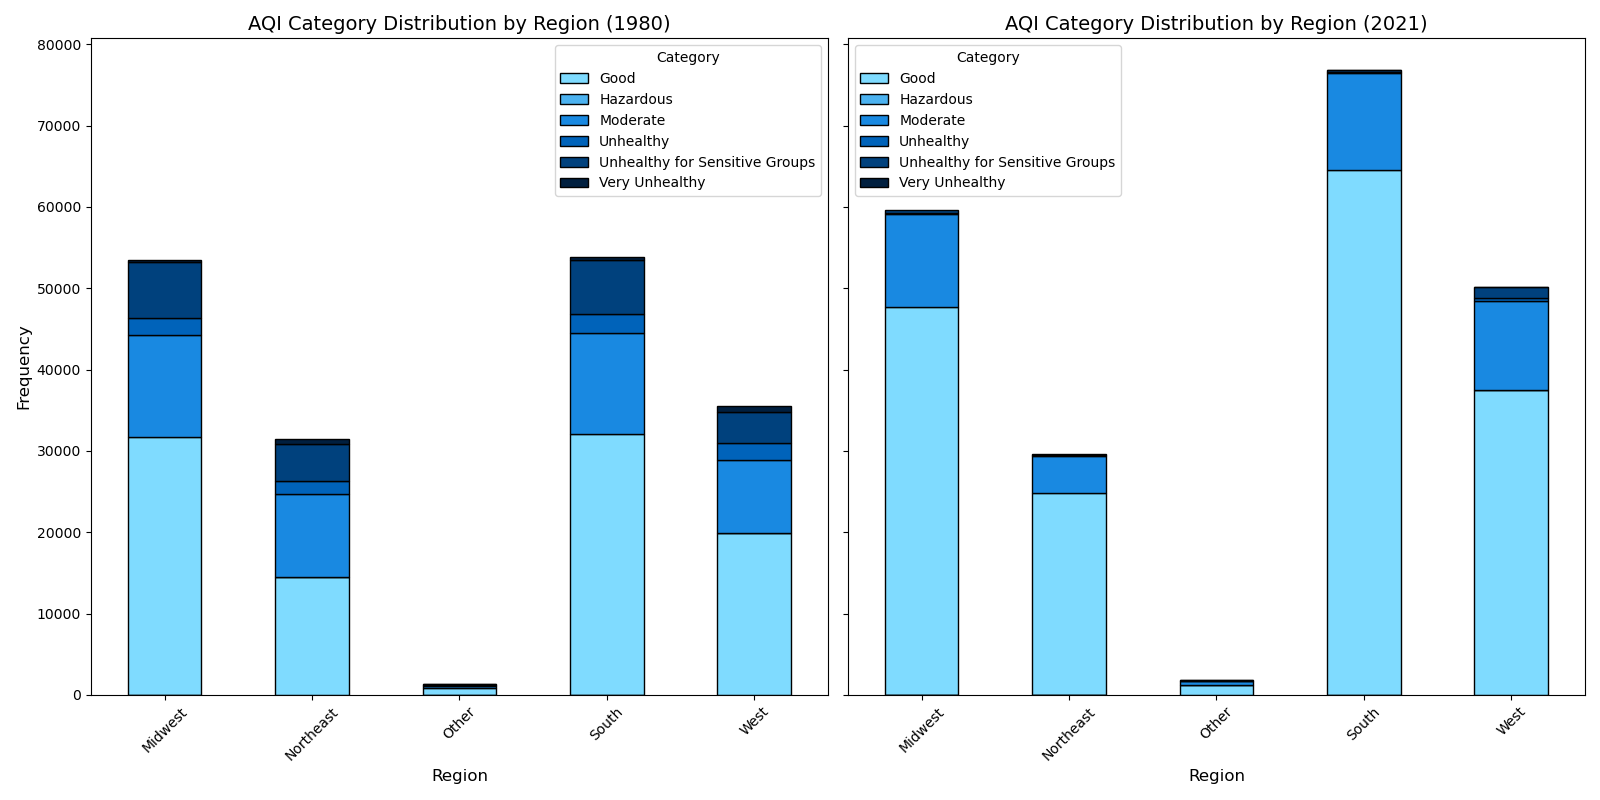
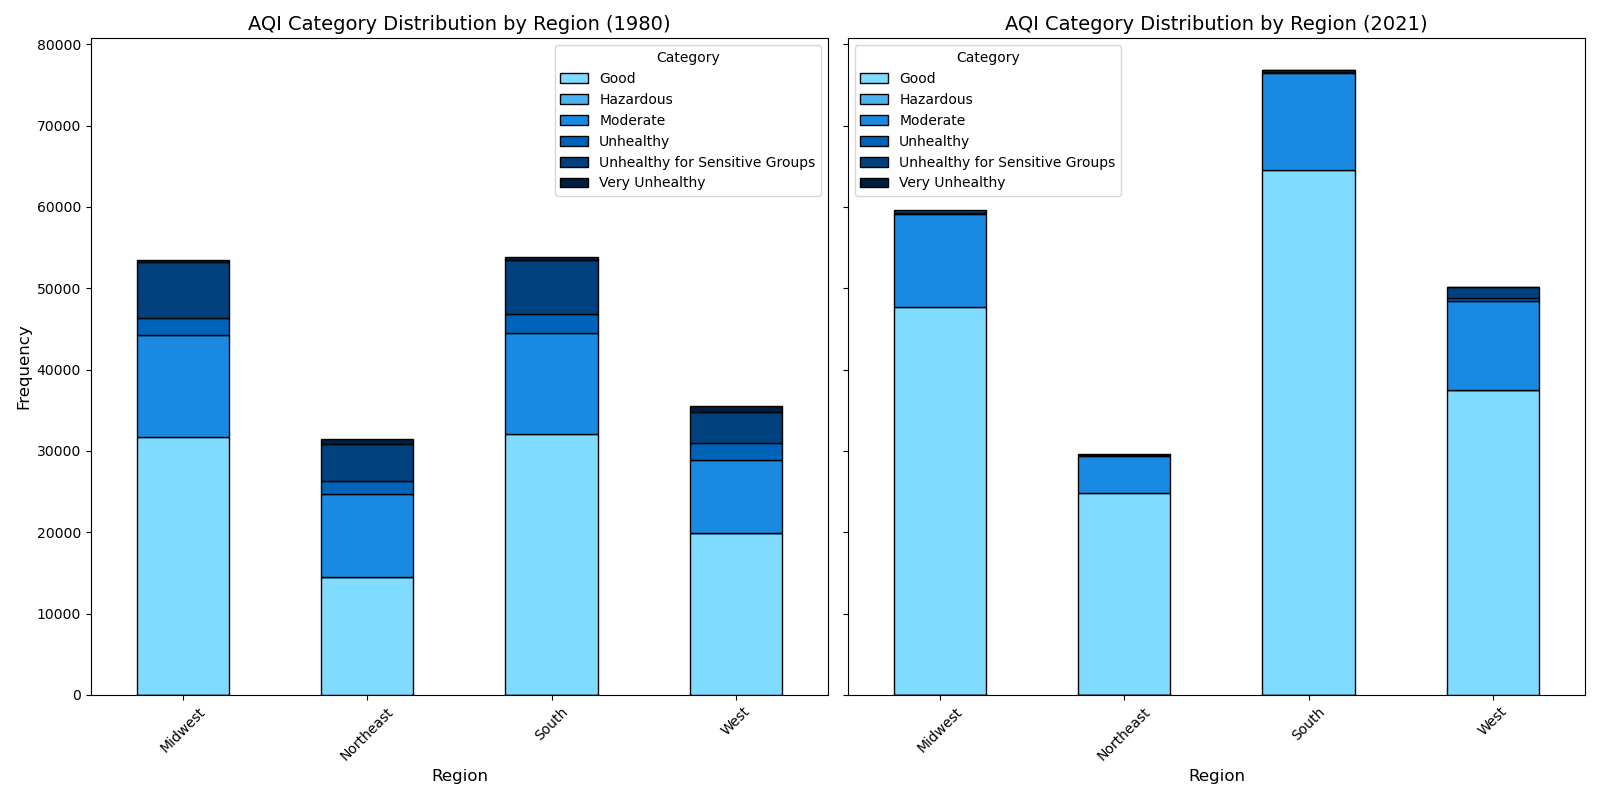
updated bar chart

diff --git a/scripts/visualization.py b/scripts/visualization.py
@@ -77,14 +77,18 @@ regions = {
              'Oregon', 'Utah', 'Washington', 'Wyoming']
 }
 
+
 # Assign regions to both datasets
 combined_aqi['Region'] = 'Other'  # Default value
 for region, states in regions.items():
     combined_aqi.loc[combined_aqi['State Name'].isin(states), 'Region'] = region
 
+# Filter out rows where Region is 'Other'
+filtered_aqi = combined_aqi[combined_aqi['Region'] != 'Other']
+
 # Group by region and category for 1980 and 2021 separately
-region_category_1980 = combined_aqi[combined_aqi['Year'] == 1980].groupby(['Region', 'Category']).size().unstack(fill_value=0)
-region_category_2021 = combined_aqi[combined_aqi['Year'] == 2021].groupby(['Region', 'Category']).size().unstack(fill_value=0)
+region_category_1980 = filtered_aqi[filtered_aqi['Year'] == 1980].groupby(['Region', 'Category']).size().unstack(fill_value=0)
+region_category_2021 = filtered_aqi[filtered_aqi['Year'] == 2021].groupby(['Region', 'Category']).size().unstack(fill_value=0)
 
 # Custom colormap for pollution levels (light blue to dark blue)
 pollution_colors = mcolors.LinearSegmentedColormap.from_list(
